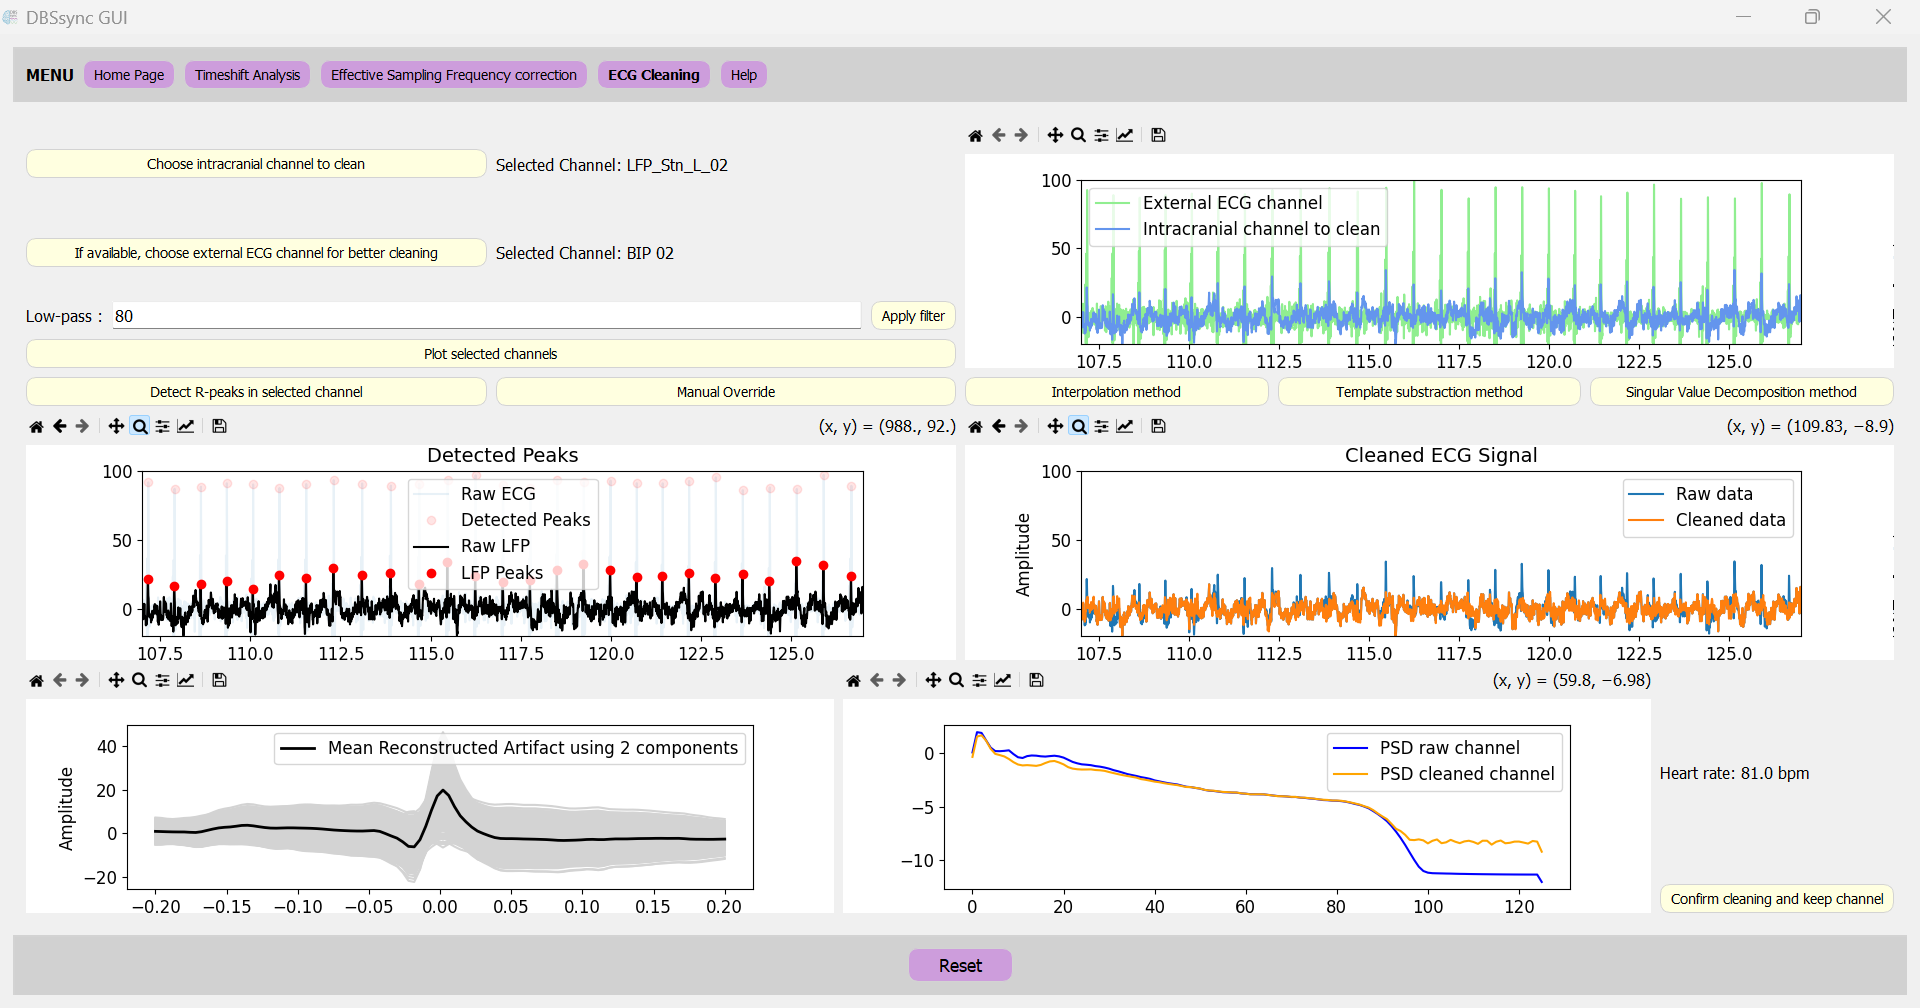
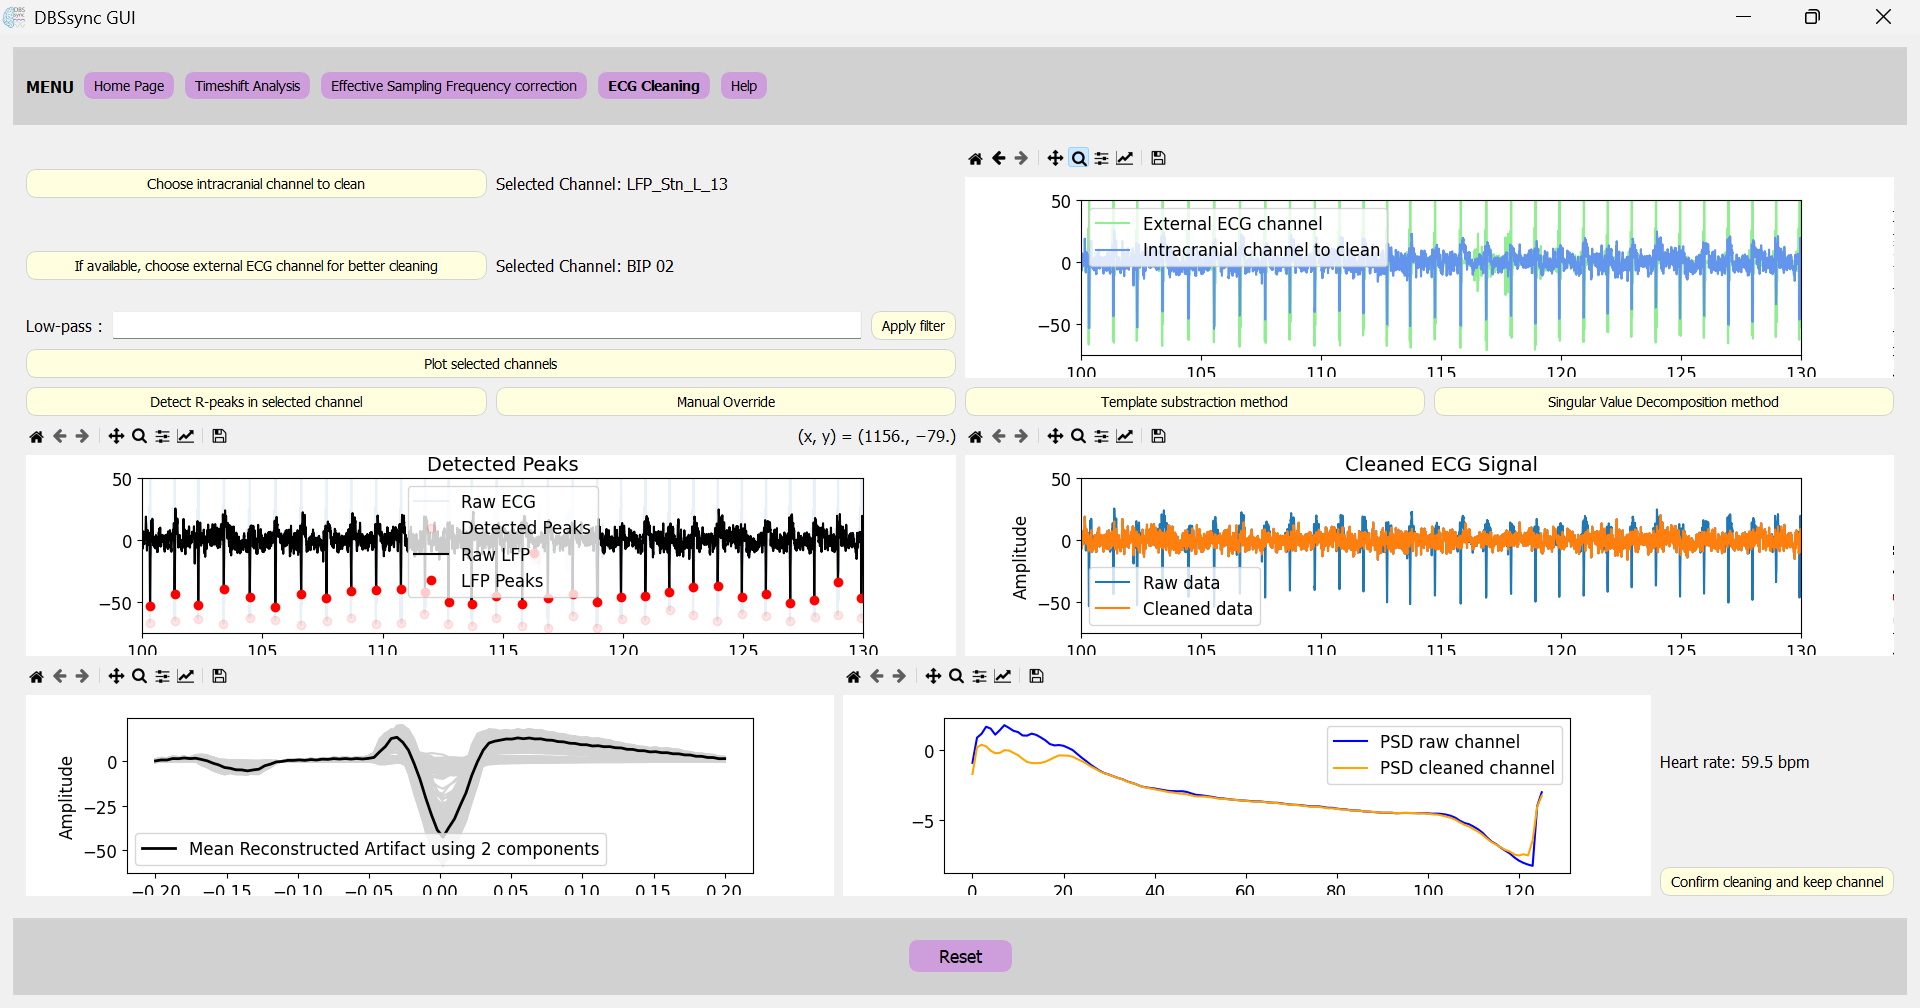
updated Help page - ecg cleaning section (removed interpolation method)

diff --git a/help/info.html b/help/info.html
@@ -260,9 +260,8 @@
                                     </li>
                                 </ul> 
                                 <br>
-                                Once R-peaks are correctly detected, one of the three cleaning methods available in the toolbox can be used:    
+                                Once R-peaks are correctly detected, one of the two cleaning methods available in the toolbox can be used:    
                                 <ul>
-                                    <li><b>Interpolation method:</b> this method performs a linear interpolation of R-peaks in the intracranial data.</li>
                                     <li><b>Template subtraction:</b> this method creates an average template of the QRS complex based on detected R-peaks.
                                         At each R-peak, the template is fitted using linear fit, tails are equalized and the tempalte is substracted from the 
                                         corresponding R-peak in the intracranial data.
@@ -275,7 +274,7 @@
                                         is substracted from the corresponding R-peak in the intracranial data.
                                     </li>
                                 </ul>  
-                                This methods are reproduced from the paper of <a href="https://www.sciencedirect.com/science/article/pii/S1388245722009488" target="_blank" class="clickable-link">Stam and colleagues (2023)</a>: 
+                                These methods are reproduced from the paper of <a href="https://www.sciencedirect.com/science/article/pii/S1388245722009488" target="_blank" class="clickable-link">Stam and colleagues (2023)</a>: 
                                 <br><small> M.J. Stam, B.C.M. van Wijk, P. Sharma, M. Beudel, D.A. Piña-Fuentes, R.M.A. de Bie, P.R. Schuurman, W.-J. Neumann, A.W.G. Buijink,
                                 A comparison of methods to suppress electrocardiographic artifacts in local field potential recordings,
                                 Clinical Neurophysiology,
